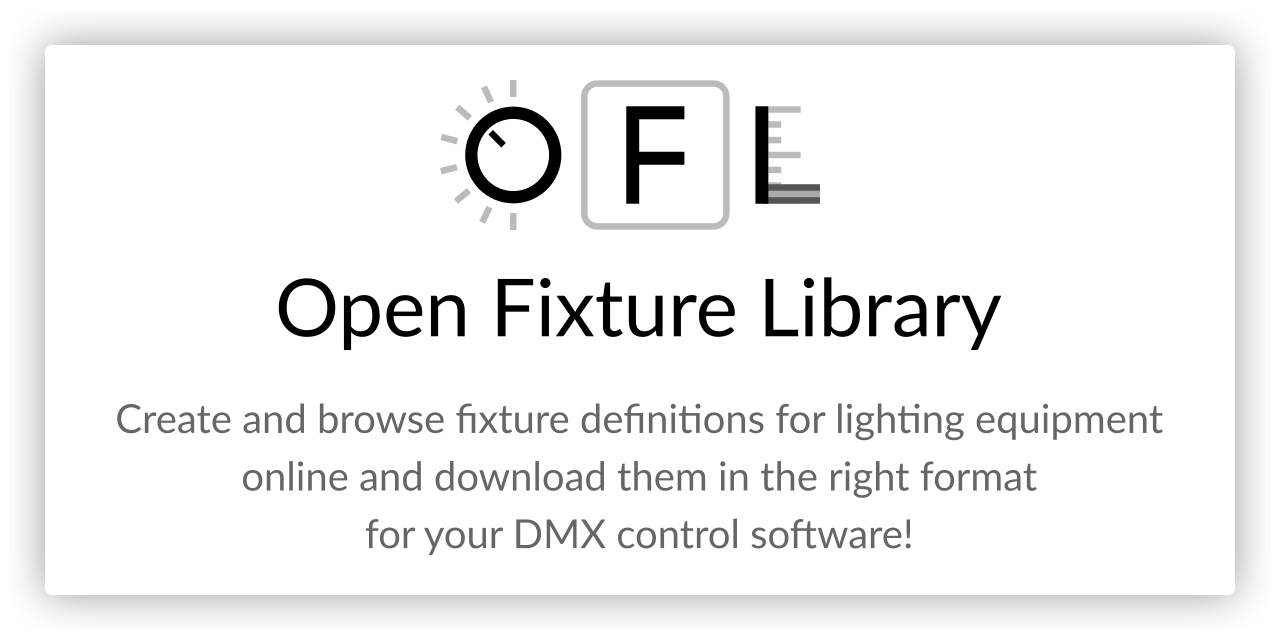
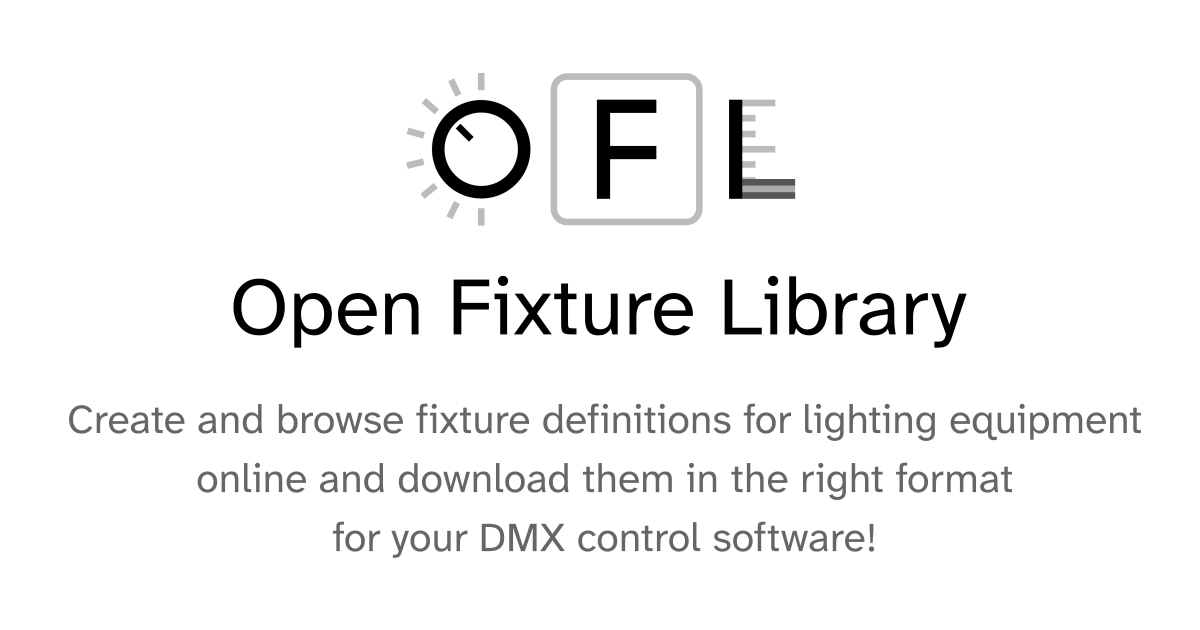
Update social image (#6380)

diff --git a/nuxt.config.js b/nuxt.config.js
@@ -149,9 +149,8 @@ export default {
         content: theme === 'dark' ? '#383838' : '#fafafa', // SCSS: theme-color(header-background)
       },
       {
-        // this enables Twitter link previews
         name: 'twitter:card',
-        content: 'summary',
+        content: 'summary_large_image',
       },
       {
         hid: 'url',
@@ -159,27 +158,22 @@ export default {
         content: canonicalUrl,
       },
       {
-        hid: 'type',
         property: 'og:type',
         content: 'website',
       },
       {
-        hid: 'site_name',
         property: 'og:site_name',
         content: 'Open Fixture Library',
       },
       {
-        hid: 'locale',
         property: 'og:locale',
         content: 'en_US',
       },
       {
-        hid: 'determiner',
         property: 'og:determiner',
         content: 'the',
       },
       {
-        hid: 'description',
         property: 'og:description',
         content: 'Create and browse fixture definitions for lighting equipment online and download them in the right format for your DMX control software!',
       },
@@ -195,19 +189,16 @@ export default {
         content: 'https://open-fixture-library.org/open-graph.png',
       },
       {
-        hid: 'image_type',
         property: 'og:image:type',
         content: 'image/png',
       },
       {
-        hid: 'image_width',
         property: 'og:image:width',
-        content: '1280',
+        content: '1200',
       },
       {
-        hid: 'image_height',
         property: 'og:image:height',
-        content: '640',
+        content: '630',
       },
     ];
 
